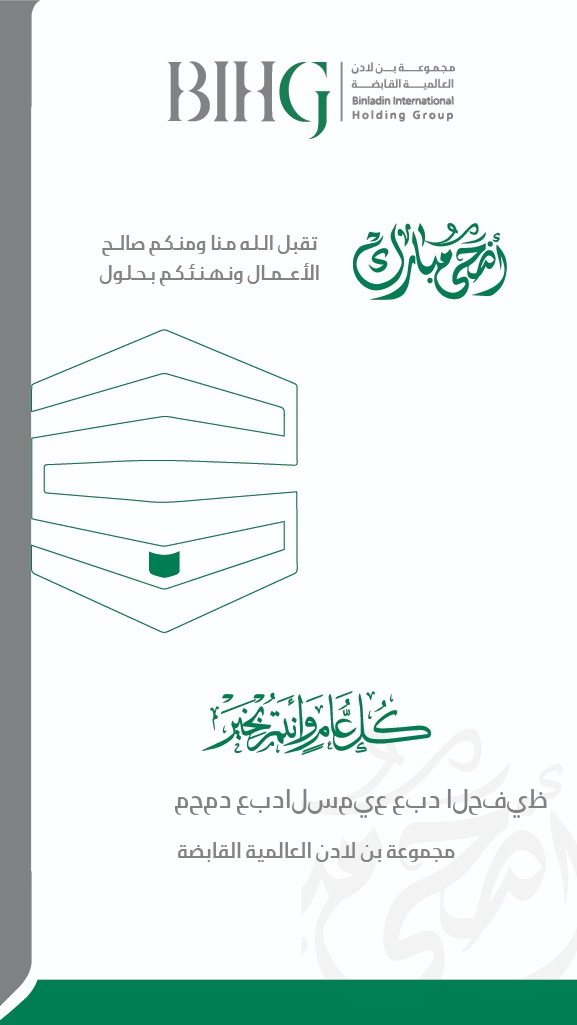
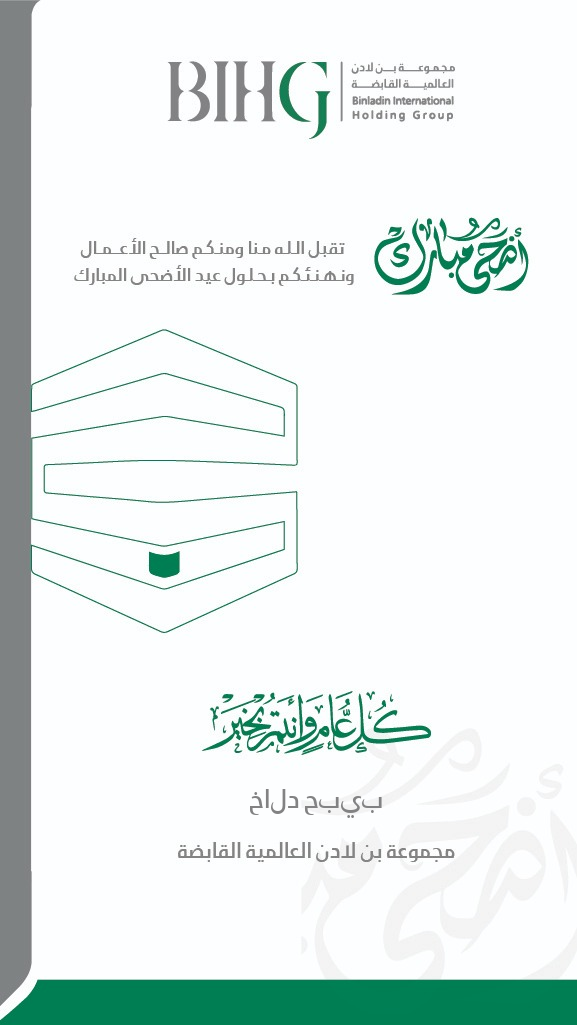
bihg new desing + english

diff --git a/templates/temp/cardabcc.html b/templates/temp/cardabcc.html
@@ -7,7 +7,7 @@
 {#<!DOCTYPE html>#}
 <html lang="ar" dir="rtl">
 	<head>
-        <link rel="shortcut icon" href="{% static 'favicon.ico' %}">
+{#        <link rel="shortcut icon" href="{% static 'favicon.ico' %}">#}
 		<meta charset="utf-8">
         <meta name="viewport" content="width=device-width, initial-scale=1, maximum-scale=1">
 
@@ -148,7 +148,7 @@
 
                                <div class="text-center mb-4"><img src="{% static 'assets/img/dunia logo 400x400.png' %}" style="max-width: 200px; " class="img-fluid" alt="" /></div>
                                 <div class="text-center mb-4">
-                                    <h2>بطاقة تهنئة عيد الفطر</h2>
+                                    <h2>بطاقة تهنئة عيد الأضحى</h2>
                                 </div>
 								<div class="row main_login_form">
 									<div class="login_form_dm">

diff --git a/templates/temp/cardalborg.html b/templates/temp/cardalborg.html
@@ -7,7 +7,7 @@
 {#<!DOCTYPE html>#}
 <html lang="ar" dir="rtl">
 	<head>
-        <link rel="shortcut icon" href="{% static 'favicon.ico' %}">
+{#        <link rel="shortcut icon" href="{% static 'favicon.ico' %}">#}
 		<meta charset="utf-8">
         <meta name="viewport" content="width=device-width, initial-scale=1, maximum-scale=1">
 
@@ -148,7 +148,7 @@
 
                                <div class="text-center mb-4"><img src="{% static 'assets/img/dunia logo 400x400.png' %}" style="max-width: 200px; " class="img-fluid" alt="" /></div>
                                 <div class="text-center mb-4">
-                                    <h2>بطاقة تهنئة عيد الفطر</h2>
+                                    <h2>بطاقة تهنئة عيد الأضحى</h2>
                                 </div>
 								<div class="row main_login_form">
 									<div class="login_form_dm">

diff --git a/templates/temp/cardjonson.html b/templates/temp/cardjonson.html
@@ -7,7 +7,7 @@
 {#<!DOCTYPE html>#}
 <html lang="ar" dir="rtl">
 	<head>
-        <link rel="shortcut icon" href="{% static 'favicon.ico' %}">
+{#        <link rel="shortcut icon" href="{% static 'favicon.ico' %}">#}
 		<meta charset="utf-8">
         <meta name="viewport" content="width=device-width, initial-scale=1, maximum-scale=1">
 
@@ -148,7 +148,7 @@
 
                                <div class="text-center mb-4"><img src="{% static 'assets/logo/johnson controls.jpg' %}" style="max-width: 200px; " class="img-fluid" alt="" /></div>
                                 <div class="text-center mb-4">
-                                    <h2>بطاقة تهنئة عيد الفطر</h2>
+                                    <h2>بطاقة تهنئة عيد الأضحى</h2>
                                 </div>
 								<div class="row main_login_form">
 									<div class="login_form_dm">

diff --git a/templates/temp/cardprm.html b/templates/temp/cardprm.html
@@ -7,7 +7,7 @@
 {#<!DOCTYPE html>#}
 <html lang="ar" dir="rtl">
 	<head>
-        <link rel="shortcut icon" href="{% static 'favicon.ico' %}">
+{#        <link rel="shortcut icon" href="{% static 'favicon.ico' %}">#}
 		<meta charset="utf-8">
         <meta name="viewport" content="width=device-width, initial-scale=1, maximum-scale=1">
 
@@ -148,7 +148,7 @@
 
                                <div class="text-center mb-4"><img src="{% static 'assets/logo/PREMCO READY MIX.jpg' %}" style="max-width: 200px; " class="img-fluid" alt="" /></div>
                                 <div class="text-center mb-4">
-                                    <h2>بطاقة تهنئة عيد الفطر</h2>
+                                    <h2>بطاقة تهنئة عيد الأضحى</h2>
                                 </div>
 								<div class="row main_login_form">
 									<div class="login_form_dm">

diff --git a/templates/temp/cardsaudi.html b/templates/temp/cardsaudi.html
@@ -7,7 +7,7 @@
 {#<!DOCTYPE html>#}
 <html lang="ar" dir="rtl">
 	<head>
-        <link rel="shortcut icon" href="{% static 'favicon.ico' %}">
+{#        <link rel="shortcut icon" href="{% static 'favicon.ico' %}">#}
 		<meta charset="utf-8">
         <meta name="viewport" content="width=device-width, initial-scale=1, maximum-scale=1">
 
@@ -148,7 +148,7 @@
 
                                <div class="text-center mb-4"><img src="{% static 'assets/logo/saudi services.jpeg' %}" style="max-width: 200px; " class="img-fluid" alt="" /></div>
                                 <div class="text-center mb-4">
-                                    <h2>بطاقة تهنئة عيد الفطر</h2>
+                                    <h2>بطاقة تهنئة عيد الأضحى</h2>
                                 </div>
 								<div class="row main_login_form">
 									<div class="login_form_dm">

diff --git a/templates/temp/cardbtgroup.html b/templates/temp/cardbtgroup.html
@@ -7,7 +7,7 @@
 {#<!DOCTYPE html>#}
 <html lang="ar" dir="rtl">
 	<head>
-        <link rel="shortcut icon" href="{% static 'favicon.ico' %}">
+{#        <link rel="shortcut icon" href="{% static 'favicon.ico' %}">#}
 		<meta charset="utf-8">
         <meta name="viewport" content="width=device-width, initial-scale=1, maximum-scale=1">
 
@@ -148,7 +148,7 @@
 
                                <div class="text-center mb-4"><img src="{% static 'assets/logo/BTG Group.jpg' %}" style="max-width: 200px; " class="img-fluid" alt="" /></div>
                                 <div class="text-center mb-4">
-                                    <h2>بطاقة تهنئة عيد الفطر</h2>
+                                    <h2>بطاقة تهنئة عيد الأضحى</h2>
                                 </div>
 								<div class="row main_login_form">
 									<div class="login_form_dm">

diff --git a/templates/temp/cardfast.html b/templates/temp/cardfast.html
@@ -7,7 +7,7 @@
 {#<!DOCTYPE html>#}
 <html lang="ar" dir="rtl">
 	<head>
-        <link rel="shortcut icon" href="{% static 'favicon.ico' %}">
+{#        <link rel="shortcut icon" href="{% static 'favicon.ico' %}">#}
 		<meta charset="utf-8">
         <meta name="viewport" content="width=device-width, initial-scale=1, maximum-scale=1">
 
@@ -148,7 +148,7 @@
 
                                <div class="text-center mb-4"><img src="{% static 'assets/logo/FAST Logo.jpg' %}" style="max-width: 200px; " class="img-fluid" alt="" /></div>
                                 <div class="text-center mb-4">
-                                    <h2>بطاقة تهنئة عيد الفطر</h2>
+                                    <h2>بطاقة تهنئة عيد الأضحى</h2>
                                 </div>
 								<div class="row main_login_form">
 									<div class="login_form_dm">

diff --git a/templates/temp/cardsacodeco.html b/templates/temp/cardsacodeco.html
@@ -7,7 +7,7 @@
 {#<!DOCTYPE html>#}
 <html lang="ar" dir="rtl">
 	<head>
-        <link rel="shortcut icon" href="{% static 'favicon.ico' %}">
+{#        <link rel="shortcut icon" href="{% static 'favicon.ico' %}">#}
 		<meta charset="utf-8">
         <meta name="viewport" content="width=device-width, initial-scale=1, maximum-scale=1">
 
@@ -148,7 +148,7 @@
 
                                <div class="text-center mb-4"><img src="{% static 'assets/logo/SACODECO.jpg' %}" style="max-width: 200px; " class="img-fluid" alt="" /></div>
                                 <div class="text-center mb-4">
-                                    <h2>بطاقة تهنئة عيد الفطر</h2>
+                                    <h2>بطاقة تهنئة عيد الأضحى</h2>
                                 </div>
 								<div class="row main_login_form">
 									<div class="login_form_dm">

diff --git a/templates/temp/cardmubadra.html b/templates/temp/cardmubadra.html
@@ -7,7 +7,7 @@
 {#<!DOCTYPE html>#}
 <html lang="ar" dir="rtl">
 	<head>
-        <link rel="shortcut icon" href="{% static 'favicon.ico' %}">
+{#        <link rel="shortcut icon" href="{% static 'favicon.ico' %}">#}
 		<meta charset="utf-8">
         <meta name="viewport" content="width=device-width, initial-scale=1, maximum-scale=1">
 
@@ -148,7 +148,7 @@
 
                                <div class="text-center mb-4"><img src="{% static 'assets/logo/mubadra.jpg' %}" style="max-width: 200px; " class="img-fluid" alt="" /></div>
                                 <div class="text-center mb-4">
-                                    <h2>بطاقة تهنئة عيد الفطر</h2>
+                                    <h2>بطاقة تهنئة عيد الأضحى</h2>
                                 </div>
 								<div class="row main_login_form">
 									<div class="login_form_dm">

diff --git a/templates/temp/cardhasoub.html b/templates/temp/cardhasoub.html
@@ -7,7 +7,7 @@
 {#<!DOCTYPE html>#}
 <html lang="ar" dir="rtl">
 	<head>
-        <link rel="shortcut icon" href="{% static 'favicon.ico' %}">
+{#        <link rel="shortcut icon" href="{% static 'favicon.ico' %}">#}
 		<meta charset="utf-8">
         <meta name="viewport" content="width=device-width, initial-scale=1, maximum-scale=1">
 
@@ -148,7 +148,7 @@
 
                                <div class="text-center mb-4"><img src="{% static 'assets/logo/Hasoub.jpg' %}" style="max-width: 200px; " class="img-fluid" alt="" /></div>
                                 <div class="text-center mb-4">
-                                    <h2>بطاقة تهنئة عيد الفطر</h2>
+                                    <h2>بطاقة تهنئة عيد الأضحى</h2>
                                 </div>
 								<div class="row main_login_form">
 									<div class="login_form_dm">

diff --git a/templates/temp/cardpremco.html b/templates/temp/cardpremco.html
@@ -7,7 +7,7 @@
 {#<!DOCTYPE html>#}
 <html lang="ar" dir="rtl">
 	<head>
-        <link rel="shortcut icon" href="{% static 'favicon.ico' %}">
+{#        <link rel="shortcut icon" href="{% static 'favicon.ico' %}">#}
 		<meta charset="utf-8">
         <meta name="viewport" content="width=device-width, initial-scale=1, maximum-scale=1">
 
@@ -148,7 +148,7 @@
 
                                <div class="text-center mb-4"><img src="{% static 'assets/logo/PREMCO.jpg' %}" style="max-width: 200px; " class="img-fluid" alt="" /></div>
                                 <div class="text-center mb-4">
-                                    <h2>بطاقة تهنئة عيد الفطر</h2>
+                                    <h2>بطاقة تهنئة عيد الأضحى</h2>
                                 </div>
 								<div class="row main_login_form">
 									<div class="login_form_dm">

diff --git a/templates/temp/cardpcmc.html b/templates/temp/cardpcmc.html
@@ -7,7 +7,7 @@
 {#<!DOCTYPE html>#}
 <html lang="ar" dir="rtl">
 	<head>
-        <link rel="shortcut icon" href="{% static 'favicon.ico' %}">
+{#        <link rel="shortcut icon" href="{% static 'favicon.ico' %}">#}
 		<meta charset="utf-8">
         <meta name="viewport" content="width=device-width, initial-scale=1, maximum-scale=1">
 
@@ -148,7 +148,7 @@
 
                                <div class="text-center mb-4"><img src="{% static 'assets/logo/pcmc.jpeg' %}" style="max-width: 200px; " class="img-fluid" alt="" /></div>
                                 <div class="text-center mb-4">
-                                    <h2>بطاقة تهنئة عيد الفطر</h2>
+                                    <h2>بطاقة تهنئة عيد الأضحى</h2>
                                 </div>
 								<div class="row main_login_form">
 									<div class="login_form_dm">
